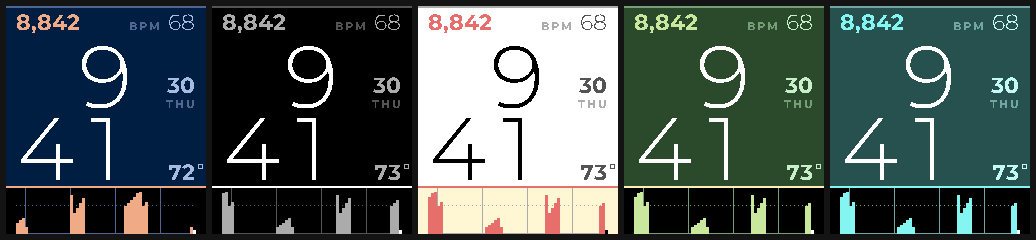
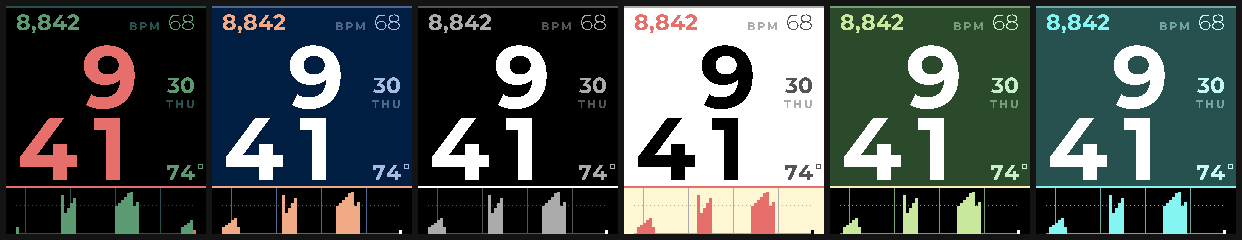
Meridian: Phosphor, and the defaults that go with it
Two phosphors on a dead screen, read off a screenshot of the custom
colours: FF5500 on the time and the horizon, 00AA55 on everything the
body reports, 005555 on the graticule, black for both bands. It splits
the palette by what a number is about rather than by rank, which is the
opposite of the other five, so it gets its own paragraph rather than
being filed under the same recipe.

The horizon siding with the clock rather than the terrain is what keeps
the two halves related — it becomes the line the numerals stand on. And
it makes the sleep state better by accident: the horizon and the value
fall back to the muted green, so the face is entirely green until you
get up and the time turns orange.

TH_PHOSPHOR goes after TH_CUSTOM instead of beside its siblings.
Inserting it anywhere earlier renumbers TH_CUSTOM, and a watch with a
saved Custom would silently come up wearing a preset. The config page
lists it first regardless; only the stored integer has to stay put.

SETTINGS_VERSION 2, because a changed default reaches nothing that has
ever saved — and everything saves, since the JS sends a weather message
on launch. Bumping it is the only thing that makes the new defaults
(Phosphor, stacked, Montserrat, bold) actually arrive.

diff --git a/Meridian/src/pkjs/config.js b/Meridian/src/pkjs/config.js
@@ -16,10 +16,11 @@ module.exports = [
       {
         type: 'select',
         messageKey: 'Theme',
-        defaultValue: '0',
+        defaultValue: '6',
         label: 'Theme',
-        description: 'Each one is built the same way: a lit sky over ground in shadow, and exactly one bright colour, spent only on the horizon, the step count and the terrain.',
+        description: 'Most are built the same way: a lit sky over ground in shadow, and exactly one bright colour, spent only on the horizon, the step count and the terrain. Phosphor is the exception — no sky at all, the time in orange and everything your body reports in green.',
         options: [
+          { label: 'Phosphor — orange and green on black', value: '6' },
           { label: 'Dusk — navy and amber', value: '0' },
           { label: 'Noir — no hue at all', value: '1' },
           { label: 'Paper — light', value: '2' },
@@ -60,7 +61,7 @@ module.exports = [
       {
         type: 'toggle',
         messageKey: 'BoldClock',
-        defaultValue: false,
+        defaultValue: true,
         label: 'Bold clock',
         description: 'Light reads calmer at this size; bold survives brighter sun.'
       }

diff --git a/Meridian/src/c/settings.c b/Meridian/src/c/settings.c
@@ -10,7 +10,7 @@ static Palette s_pal;
 static void defaults(void) {
   memset(&g_cfg, 0, sizeof g_cfg);
   g_cfg.version = SETTINGS_VERSION;
-  g_cfg.theme = TH_DUSK;
+  g_cfg.theme = TH_PHOSPHOR;
   g_cfg.date_format = DATE_DAYNUM;
   g_cfg.dist_unit = DIST_AUTO;
   g_cfg.show_bpm = true;
@@ -20,7 +20,7 @@ static void defaults(void) {
   g_cfg.weather_on = true;
   g_cfg.wake_threshold = 500;
   g_cfg.clock_font = CF_MONT;
-  g_cfg.bold_clock = false;
+  g_cfg.bold_clock = true;
   g_cfg.layout = LAY_STACK;
   g_cfg.c_sky = 0x000055;
   g_cfg.c_ground = 0x000000;
@@ -35,32 +35,41 @@ static void defaults(void) {
 // Themes. Every value is already on the Pebble 64 — each channel is one of
 // 0x00/0x55/0xAA/0xFF — so nothing is quantised out from under the design.
 //
-// Each is built the same way: a lit sky over ground in shadow, and exactly
+// Most are built the same way: a lit sky over ground in shadow, and exactly
 // one warm or bright thing, spent only on the horizon, the step count and the
 // terrain. Those three are the same idea seen three ways.
+//
+// Phosphor is the exception, and the default. It spends two hues on an unlit
+// screen rather than one on a lit one: the time in orange, everything the body
+// reports in green, and no sky at all. The horizon follows the clock there
+// instead of the terrain, which is the opposite of the others — it reads as
+// the line the numerals stand on rather than the edge of the plot.
 // ---------------------------------------------------------------------------
 typedef struct {
   uint32_t sky, ground, horizon, ink, accent, muted, scale;
 } Theme;
 
-static const Theme THEMES[] = {
+static const Theme THEMES[TH_COUNT] = {
   // dusk — navy sky, black land, one amber line where they meet
-  { 0x000055, 0x000000, 0xFFAA00, 0xFFFFFF, 0xFFAA00, 0xAAAAFF, 0x5555AA },
+  [TH_DUSK]  = { 0x000055, 0x000000, 0xFFAA00, 0xFFFFFF, 0xFFAA00, 0xAAAAFF, 0x5555AA },
   // noir — no hue at all; the horizon is the only pure white shape
-  { 0x000000, 0x000000, 0xFFFFFF, 0xFFFFFF, 0xAAAAAA, 0xAAAAAA, 0x555555 },
+  [TH_NOIR]  = { 0x000000, 0x000000, 0xFFFFFF, 0xFFFFFF, 0xAAAAAA, 0xAAAAAA, 0x555555 },
   // paper — the light one, and the most readable in direct sun
-  { 0xFFFFFF, 0xFFFFAA, 0xFF5500, 0x000000, 0xFF5500, 0x555555, 0xAAAAAA },
+  [TH_PAPER] = { 0xFFFFFF, 0xFFFFAA, 0xFF5500, 0x000000, 0xFF5500, 0x555555, 0xAAAAAA },
   // moss
-  { 0x005500, 0x000000, 0xFFFF55, 0xFFFFFF, 0xAAFF00, 0xAAFFAA, 0x55AA55 },
+  [TH_MOSS]  = { 0x005500, 0x000000, 0xFFFF55, 0xFFFFFF, 0xAAFF00, 0xAAFFAA, 0x55AA55 },
   // tide
-  { 0x005555, 0x000000, 0x00FFFF, 0xFFFFFF, 0x00FFFF, 0xAAFFFF, 0x55AAAA },
+  [TH_TIDE]  = { 0x005555, 0x000000, 0x00FFFF, 0xFFFFFF, 0x00FFFF, 0xAAFFFF, 0x55AAAA },
+  // TH_CUSTOM is a hole in this table: it comes from g_cfg instead
+  // phosphor — two phosphors on a dead screen, orange for time, green for body
+  [TH_PHOSPHOR] = { 0x000000, 0x000000, 0xFF5500, 0xFF5500, 0x00AA55, 0x00AA55, 0x005555 },
 };
 
 static void resolve(void) {
   Theme custom = { g_cfg.c_sky, g_cfg.c_ground, g_cfg.c_horizon, g_cfg.c_ink,
                    g_cfg.c_accent, g_cfg.c_muted, g_cfg.c_scale };
   const Theme *t = (g_cfg.theme == TH_CUSTOM) ? &custom
-                 : &THEMES[g_cfg.theme < ARRAY_LENGTH(THEMES) ? g_cfg.theme : 0];
+                 : &THEMES[g_cfg.theme < TH_COUNT ? g_cfg.theme : TH_PHOSPHOR];
   s_pal.sky     = GColorFromHEX(t->sky);
   s_pal.ground  = GColorFromHEX(t->ground);
   s_pal.horizon = GColorFromHEX(t->horizon);
@@ -92,7 +101,7 @@ static uint32_t tup_col(DictionaryIterator *it, uint32_t key, uint32_t fb) {
 
 static void inbox(DictionaryIterator *it, void *ctx) {
   g_cfg.theme        = tup_int(it, MESSAGE_KEY_Theme, g_cfg.theme);
-  if (g_cfg.theme > TH_CUSTOM) g_cfg.theme = TH_DUSK;
+  if (g_cfg.theme >= TH_COUNT) g_cfg.theme = TH_PHOSPHOR;
   g_cfg.date_format  = tup_int(it, MESSAGE_KEY_DateFormat, g_cfg.date_format);
   g_cfg.dist_unit    = tup_int(it, MESSAGE_KEY_DistUnit, g_cfg.dist_unit);
   if (g_cfg.dist_unit > DIST_MI) g_cfg.dist_unit = DIST_AUTO;

diff --git a/Meridian/src/c/settings.h b/Meridian/src/c/settings.h
@@ -3,7 +3,12 @@
 
 enum { DATE_DAYNUM, DATE_MONTHDAY, DATE_OFF };  // "WED 29" / "JUL 29"
 enum { DIST_AUTO, DIST_KM, DIST_MI };
-enum { TH_DUSK, TH_NOIR, TH_PAPER, TH_MOSS, TH_TIDE, TH_CUSTOM };
+// Theme values are persisted and are sent by the config page as string ints,
+// so they are append-only too: TH_PHOSPHOR goes after TH_CUSTOM rather than
+// beside its siblings, because inserting it anywhere earlier would silently
+// turn a saved Custom into a preset. The config page lists it first regardless.
+enum { TH_DUSK, TH_NOIR, TH_PAPER, TH_MOSS, TH_TIDE, TH_CUSTOM, TH_PHOSPHOR,
+       TH_COUNT };
 // Montserrat is proportional, so the clock is drawn into fixed slots to make
 // it tabular; LECO already is. Either way the digits cannot shuffle.
 enum { CF_MONT, CF_LECO, CF_ROBOTO, CF_COUNT };
@@ -12,8 +17,11 @@ enum { CF_MONT, CF_LECO, CF_ROBOTO, CF_COUNT };
 enum { LAY_STACK, LAY_LINE, LAY_COUNT };
 
 // Persisted whole. APPEND-ONLY: new fields go at the end; older saves stop
-// short and keep defaults. Bump SETTINGS_VERSION only on a reorder.
-#define SETTINGS_VERSION 1
+// short and keep defaults. Bump SETTINGS_VERSION on a reorder, or to force a
+// saved blob to be discarded so that changed defaults are actually seen —
+// which is the only way a new default reaches a watch that has ever saved.
+// 2: the Phosphor default, and the stacked/Montserrat/bold clock it goes with.
+#define SETTINGS_VERSION 2
 typedef struct {
   uint8_t version;
   uint8_t theme;

diff --git a/Meridian/README.md b/Meridian/README.md
@@ -73,7 +73,7 @@ One family, three ranks, and no centring anywhere.
 
 | Rank | Element | Face |
 | --- | --- | --- |
-| Hero | clock | Montserrat Light 88 |
+| Hero | clock | Montserrat Bold 88 |
 | Secondary | steps / sleep, pulse | Montserrat Bold / Light 22 |
 | Secondary | day number, temperature | Montserrat Bold 22 |
 | Label | date on one line | Montserrat Bold 15, caps, tracked |
@@ -94,7 +94,8 @@ having:
   digit, rather than hanging off the left. The block stays where it is; only
   the alignment inside it changes.
 
-The clock face is selectable, each with a bold option:
+The clock face is selectable, each with a bold option — bold by default,
+because it is what survives brighter sun:
 
 | Face | Stacked | One line | Character |
 | --- | --- | --- | --- |
@@ -130,12 +131,13 @@ Two things worth knowing:
 
 ### Colour
 
-Five themes plus Custom. Each is built the same way: a lit sky over ground in
-shadow, and exactly one bright colour spent only on the horizon, the step
-count and the terrain — because those three are one idea seen three ways.
+Six themes plus Custom. Five of them are built the same way: a lit sky over
+ground in shadow, and exactly one bright colour spent only on the horizon, the
+step count and the terrain — because those three are one idea seen three ways.
 
 | | sky | ground | accent |
 | --- | --- | --- | --- |
+| **Phosphor** *(default)* | black | black | green data, orange time |
 | **Dusk** | navy | black | amber |
 | **Noir** | black | black | white horizon, grey terrain |
 | **Paper** | white | cream | orange |
@@ -146,6 +148,17 @@ Three meanings rather than seven colours: **the ink is time, the accent is
 movement, the muted tone is context.** Custom exposes all seven roles. Every
 preset value is already on the Pebble 64 — each channel 00/55/AA/FF — so
 nothing is quantised out from under the design.
+
+Phosphor is the exception and the default, and it breaks the recipe on
+purpose. There is no lit sky: both bands are black, so the horizon is the only
+thing dividing them. It spends two hues rather than one — `FF5500` on the time
+and the horizon, `00AA55` on everything the body reports, `005555` on the
+graticule — which makes the split by *what a number is about* rather than by
+rank. The horizon siding with the clock instead of the terrain is what stops
+the two halves from reading as unrelated: it becomes the line the numerals
+stand on. A useful accident falls out of it — asleep, the horizon and the
+value drop to the muted green, so the face is entirely green until you get up
+and the time turns orange.
 
 Red is not a theme colour. It appears only on a flat battery and a lost phone.
 
